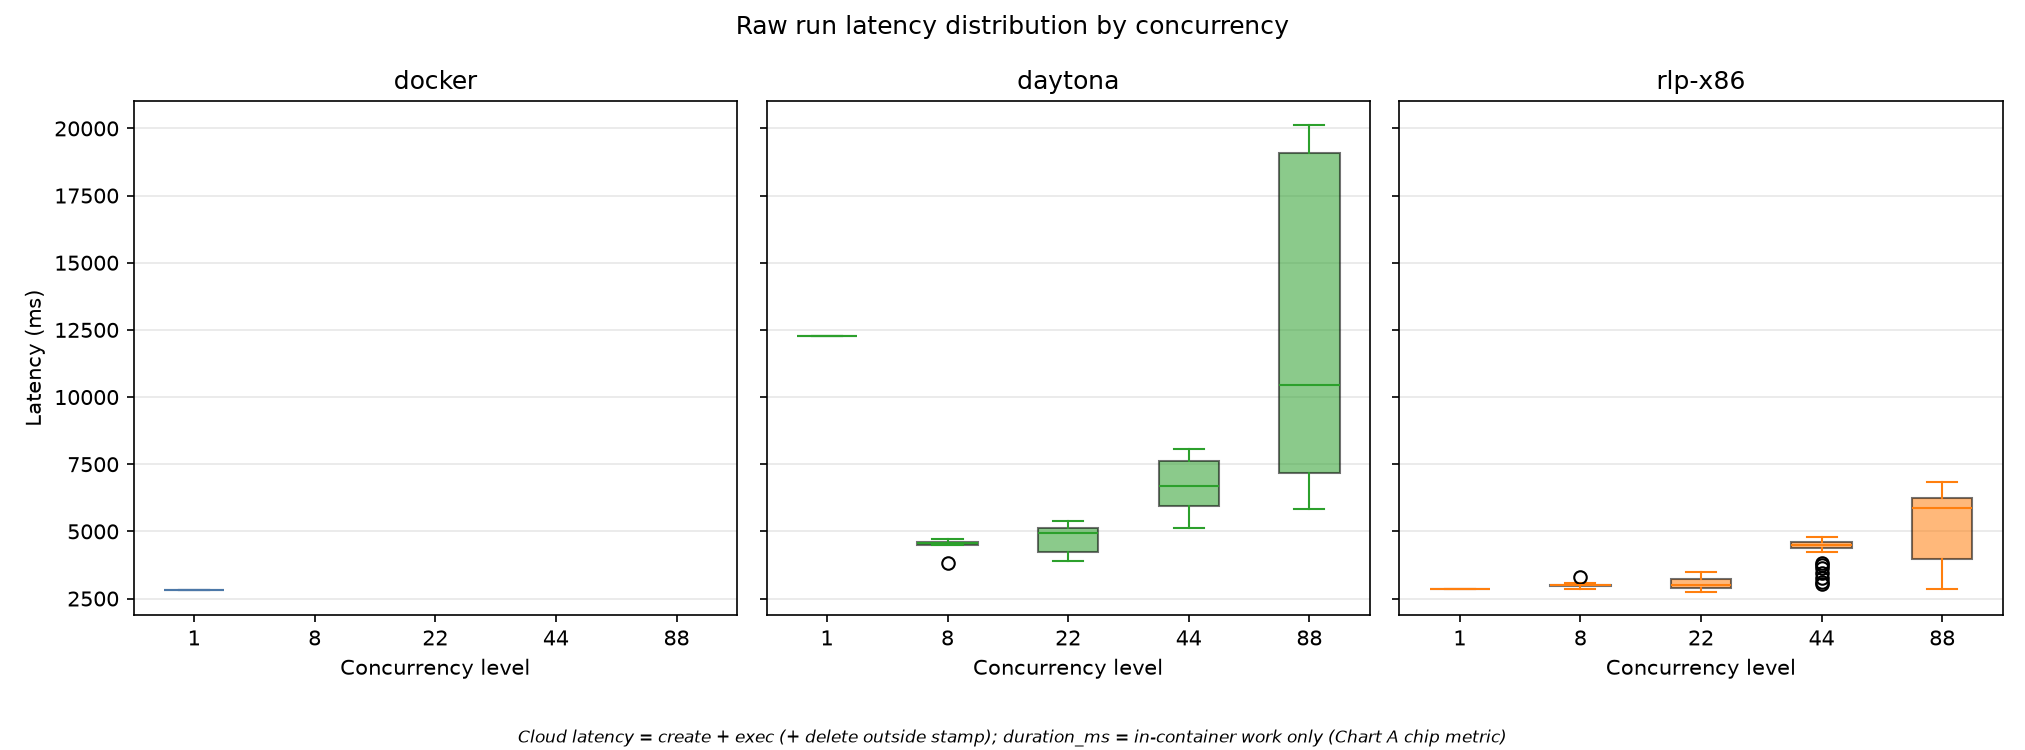
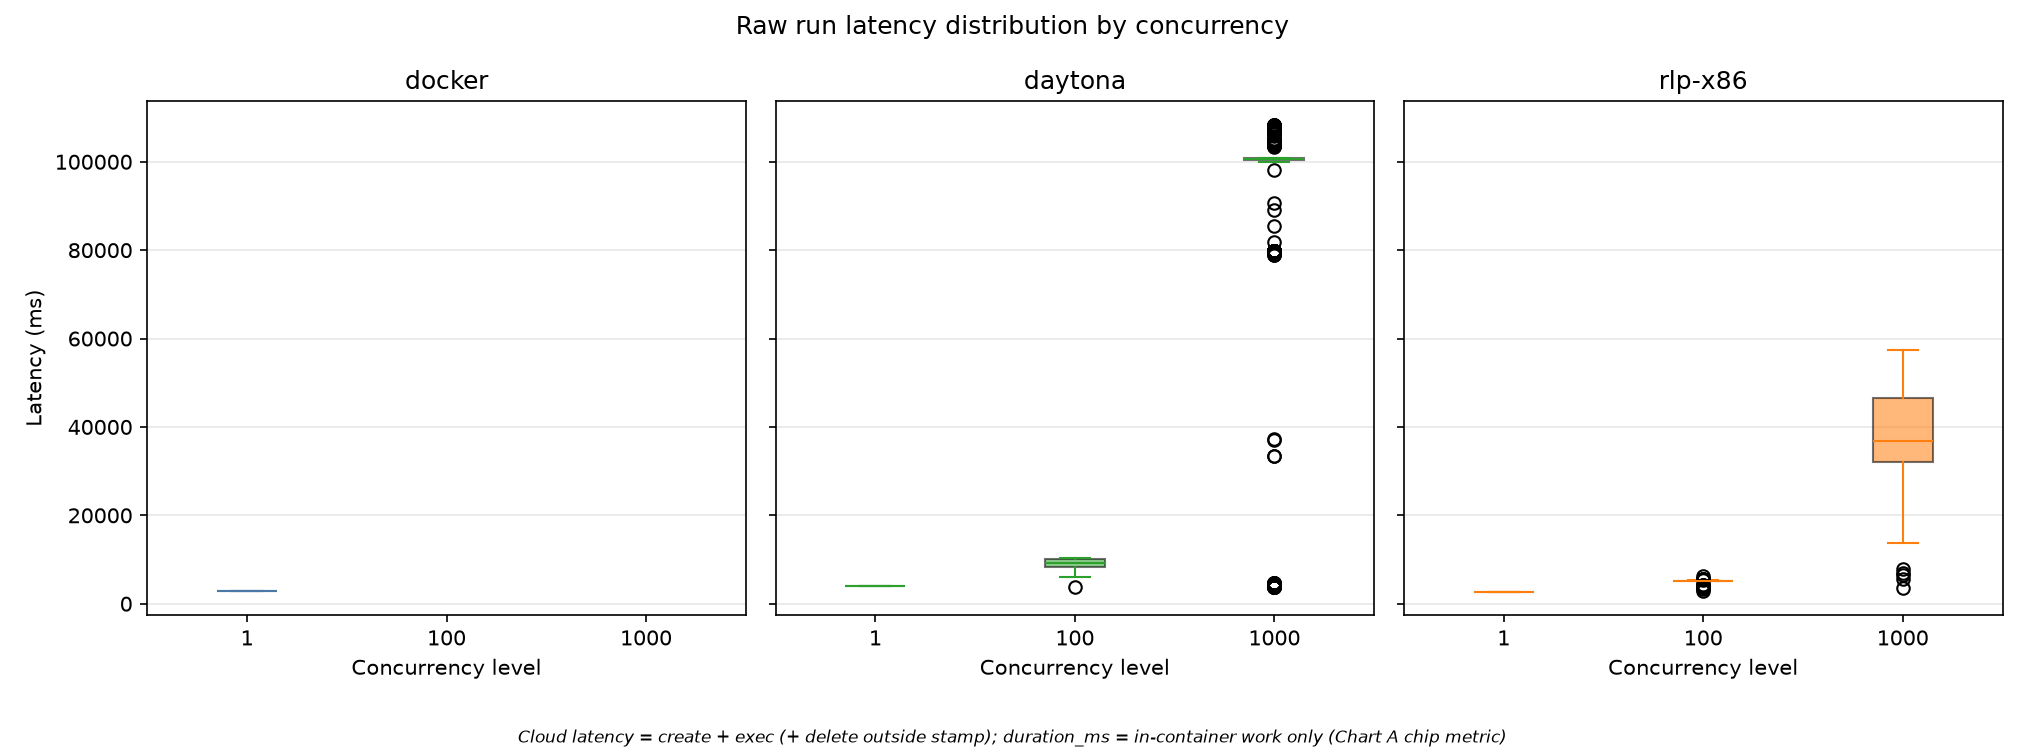
running concurrency 1000 tests

diff --git a/tickets/cto-1k-concurrency-daytona-vs-rlp.md b/tickets/cto-1k-concurrency-daytona-vs-rlp.md
@@ -1,0 +1,54 @@
+# 1,000 concurrent sandboxes: Daytona vs RLP
+
+**To:** CTO / CEO  
+**Date:** 13 Aug 2026  
+**What we tested:** 1,000 customers asking for a sandbox at the *same time*, each doing a short real eval job (same as a coding-agent / eval workload). Fresh sandbox per job.
+
+This is the “high-value customer” bar (FDE: top accounts today sit around 100–1,000 concurrent).
+
+---
+
+## Bottom line
+
+**100 concurrent works on both.** Every sandbox started. No errors.
+
+**1,000 concurrent does not.** Daytona production dropped most of the requests. RLP got much farther, but still dropped a meaningful share when the connection to the service died.
+
+| | 100 at once | 1,000 at once |
+|---|---|---|
+| **Daytona (production)** | 100 / 100 succeeded | **290 / 1,000 succeeded** (710 failed) |
+| **RLP** | 100 / 100 succeeded | **843 / 1,000 succeeded** (157 failed) |
+
+When a sandbox *did* start, the actual job inside it was fine on both (~2.5 seconds of work). The problem is **getting 1,000 sandboxes created at once**, not the work once they exist.
+
+---
+
+## What broke
+
+**Daytona production** refused a large share of creates with:
+
+> Failed to create sandbox: Total CPU limit exceeded. Maximum allowed: 250.
+
+In plain language: we asked for 1,000 sandboxes; the account is only allowed enough CPU for far fewer. Many requests never got a sandbox. (There were also some “too many requests” responses. Those are a dial we can turn — not the main story.)
+
+**RLP** failed less often (about 1 in 6), and the typical error was:
+
+> Server disconnected without sending a response.
+
+In plain language: RLP tried to take the load, then the service hung up instead of returning a clean “yes” or “no.” That is a reliability / overload problem, not a posted quota.
+
+---
+
+## How to read this for the business
+
+- **100 concurrent** — “normal customer must be amazing.” **We pass this today** on both Daytona and RLP.
+- **1,000 concurrent** — “high-value / standard reference.” **We do not pass this yet.** Daytona mostly said no (cap). RLP said yes more often, then dropped connections under the surge.
+- The work *inside* a sandbox is not the bottleneck. **Starting a thousand sandboxes at once is.**
+
+---
+
+## Suggested takeaway
+
+RLP is closer to the 1,000-concurrent customer. The remaining RLP issue is the service dropping the call (`Server disconnected without sending a response`) rather than a hard “you’re over quota.” Daytona’s 1,000-run was dominated by the CPU cap (max 250) — raise that and we should re-run before treating Daytona prod as the 1k story.
+
+Next bar after a clean 1,000 is 10,000 (market-share). Do not climb until 1,000 is boring.

diff --git a/tickets/daytona-rlp-concurrency-ladder.md b/tickets/daytona-rlp-concurrency-ladder.md
@@ -1,0 +1,103 @@
+# Daytona vs RLP concurrency ladder
+
+**Goal:** Compare container Daytona vs RLP at customer concurrency (100 = normal, 1k = high-value). Chart B density: evals `--n 1 -E 1`.
+
+**How to use:** copy/paste one command at a time. Sequential. Stop if a level has failures or ugly tails before climbing.
+
+Default RLP region (x86). Do not pass `--target` unless you intend ARM64.
+
+---
+
+## Snapshots (skip if already built)
+
+```bash
+uv run scripts/build_daytona_snapshot.py --benchmark evals
+```
+
+```bash
+uv run scripts/build_rlp_snapshot.py --benchmark evals
+```
+
+---
+
+## Smoke (c=1)
+
+```bash
+uv run main.py --benchmark evals --runner daytona --levels 1 --n 1 --seed 42 -E 1
+```
+
+```bash
+uv run main.py --benchmark evals --runner rlp --levels 1 --n 1 --seed 42 -E 1
+```
+
+---
+
+## 100 concurrent
+
+```bash
+uv run main.py --benchmark evals --runner daytona --levels 1 100 --n 1 --seed 42 -E 1
+```
+
+```bash
+uv run main.py --benchmark evals --runner rlp --levels 1 100 --n 1 --seed 42 -E 1
+```
+
+---
+
+## 1k concurrent (only if 100 is clean)
+
+```bash
+uv run main.py --benchmark evals --runner daytona --levels 1 100 1000 --n 1 --seed 42 -E 1
+```
+
+```bash
+uv run main.py --benchmark evals --runner rlp --levels 1 100 1000 --n 1 --seed 42 -E 1
+```
+
+---
+
+## Optional — coding-agent sibling
+
+```bash
+uv run scripts/build_daytona_snapshot.py --benchmark agent
+```
+
+```bash
+uv run scripts/build_rlp_snapshot.py --benchmark agent
+```
+
+```bash
+uv run main.py --benchmark agent --runner daytona --levels 1 --n 20 --seed 42 -E 1
+```
+
+```bash
+uv run main.py --benchmark agent --runner rlp --levels 1 --n 20 --seed 42 -E 1
+```
+
+```bash
+uv run main.py --benchmark agent --runner daytona --levels 1 100 --n 20 --seed 42 -E 1
+```
+
+```bash
+uv run main.py --benchmark agent --runner rlp --levels 1 100 --n 20 --seed 42 -E 1
+```
+
+```bash
+uv run main.py --benchmark agent --runner daytona --levels 1 100 1000 --n 20 --seed 42 -E 1
+```
+
+```bash
+uv run main.py --benchmark agent --runner rlp --levels 1 100 1000 --n 20 --seed 42 -E 1
+```
+
+---
+
+## EDA
+
+```bash
+uv run python eda.py --benchmark evals
+```
+
+```bash
+uv run python eda.py --benchmark agent
+```
